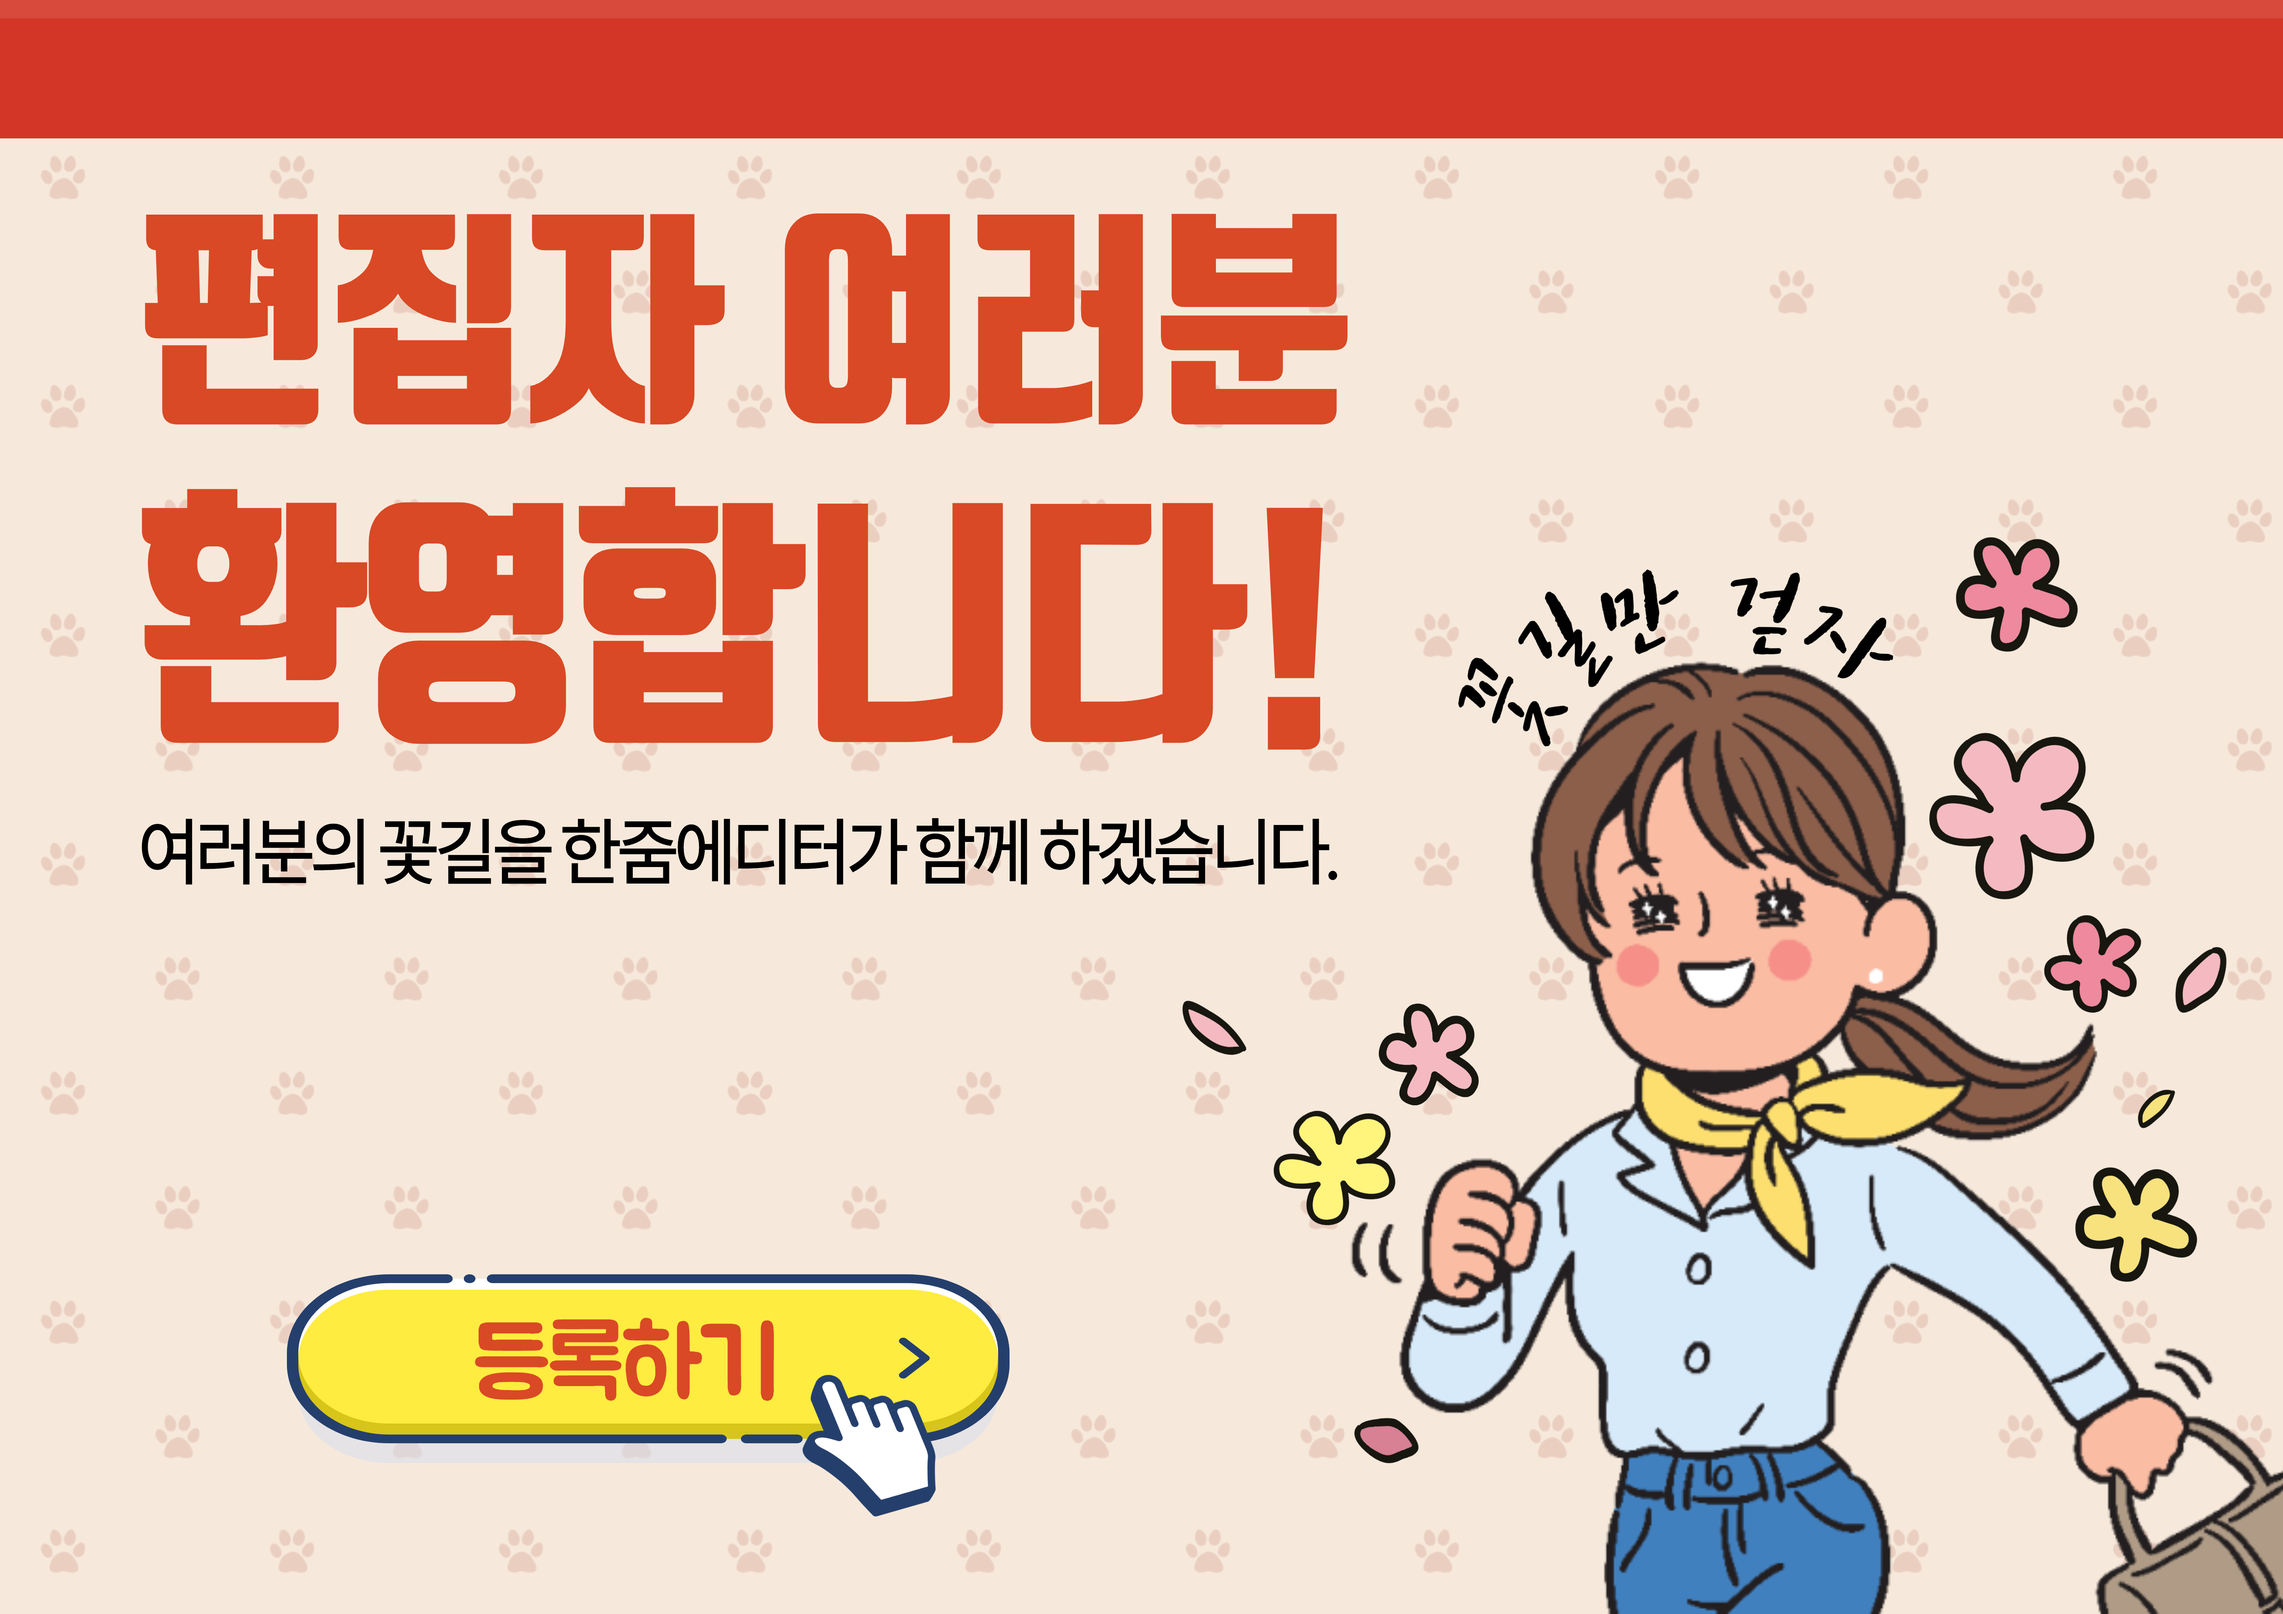
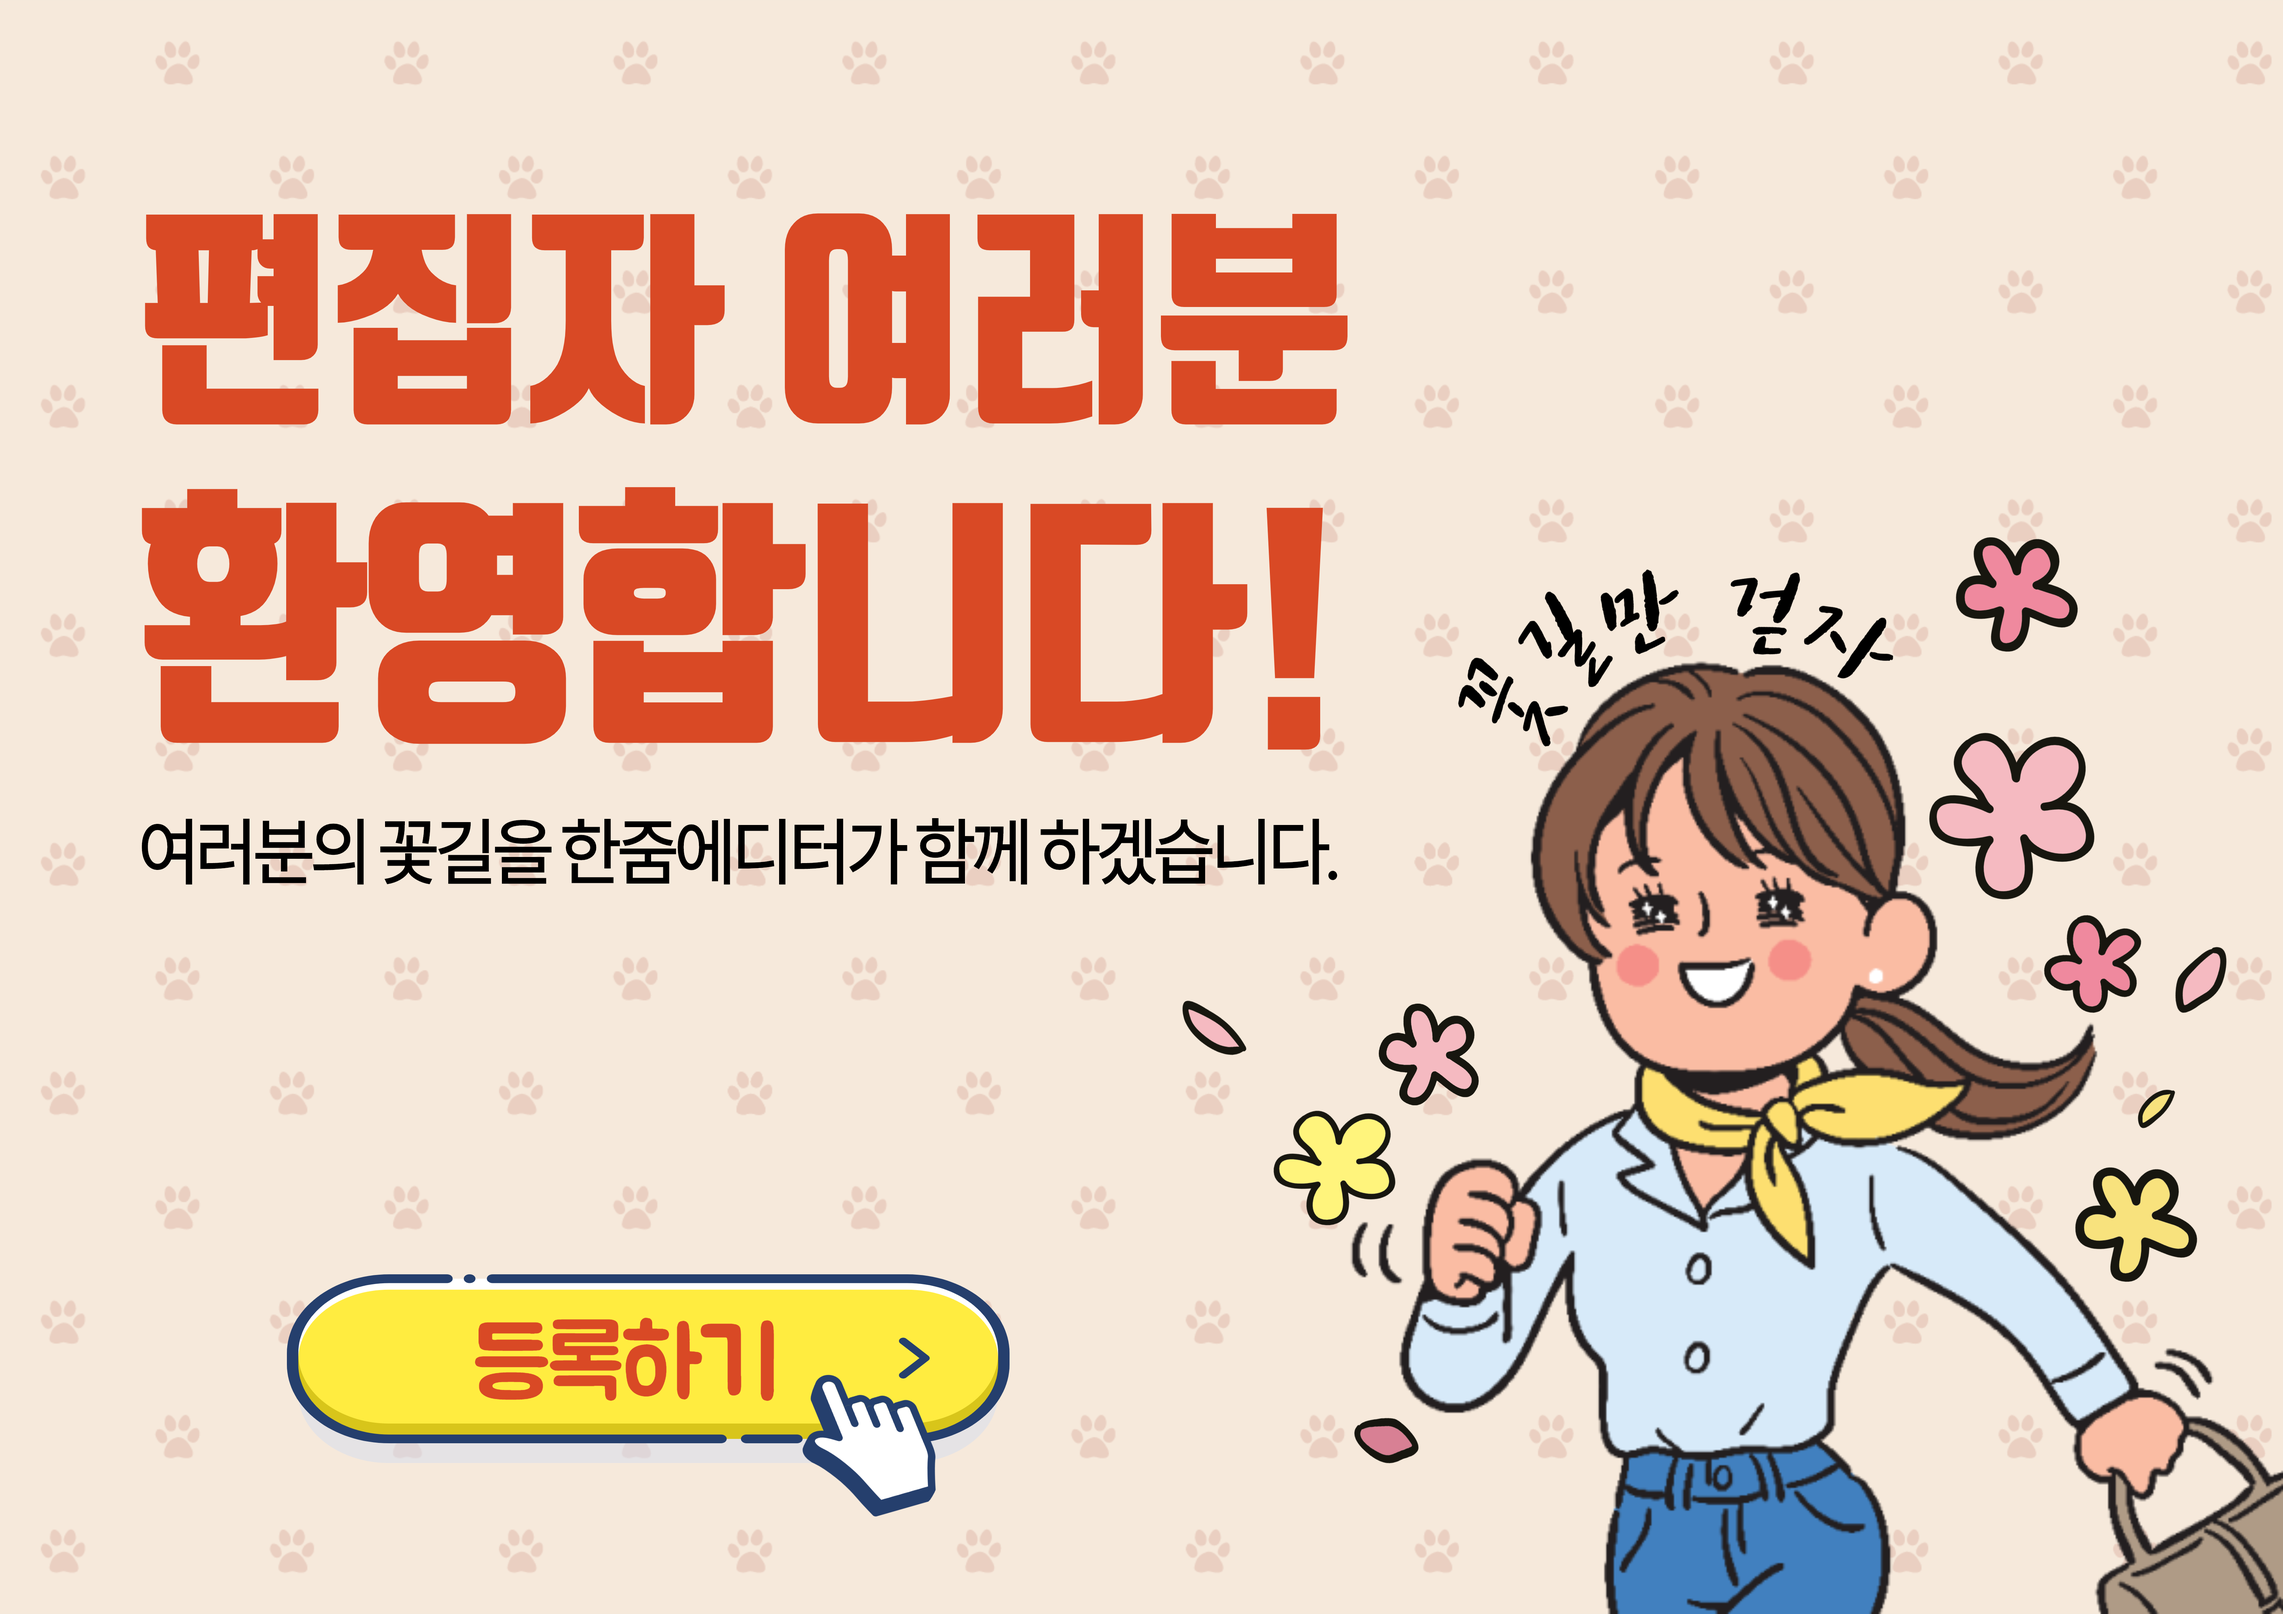
header footer 수정

Changed region(s): [[0.0, 0.0, 1.0, 0.0935]]

diff --git a/TeamProject/WebContent/js/rollingJob.js b/TeamProject/WebContent/js/rollingJob.js
@@ -1,0 +1,53 @@
+/**
+ * 
+ */
+
+$(document).ready(function(){
+	$(".job_bullet label:nth-child(1)").css('background','#666');
+	var width = 1400;
+	var jobCount = $("input[name=job_pos]").length;
+	$(".job_left").click(function(){
+		$(".job_left").css("pointer-events","none");
+		$(".job_right").css("pointer-events","none");
+		
+		setTimeout(function(){
+			$(".job_left").css("pointer-events","auto");
+			$(".job_right").css("pointer-events","auto");
+		},1000);
+		
+		var job_margin = $(".main_job_form").css('marginLeft').replace('px','');
+		if(job_margin != 0){
+			var job_pos = Number(job_margin / -1400) + Number(0);
+			var job_pos_next = Number(job_margin / -1400) + Number(1);
+			$(".main_job_form").css('marginLeft',Number(job_margin)+Number(width)+"px");
+			$(".job_bullet label:nth-child("+job_pos_next+")").css('background','#fff');
+			$(".job_bullet label:nth-child("+job_pos+")").css('background','#666');
+		} else {
+			$(".main_job_form").css('marginLeft',-width*(jobCount-1)+"px");
+			$(".job_bullet label:nth-child(1)").css('background','#fff');
+			$(".job_bullet label:nth-child("+jobCount+")").css('background','#666');
+		}
+	});
+	$(".job_right").click(function(){
+		var job_margin = $(".main_job_form").css('marginLeft').replace('px','');
+		
+		$(".job_left").css("pointer-events","none");
+		$(".job_right").css("pointer-events","none");
+		setTimeout(function(){
+			$(".job_left").css("pointer-events","auto");
+			$(".job_right").css("pointer-events","auto");
+		},1000);
+		
+		if(job_margin != width*(1-jobCount)){
+			var job_pos = Number(job_margin / -1400) + Number(1);
+			var job_pos_next = Number(job_margin / -1400) + Number(2);
+			$(".main_job_form").css('marginLeft',Number(job_margin)-Number(width)+"px");
+			$(".job_bullet label:nth-child("+job_pos_next+")").css('background','#666');
+			$(".job_bullet label:nth-child("+job_pos+")").css('background','#fff');
+		} else {
+			$(".main_job_form").css('marginLeft',0+"px");
+			$(".job_bullet label:nth-child(1)").css('background','#666');
+			$(".job_bullet label:nth-child("+jobCount+")").css('background','#fff');
+		}
+	});
+});

diff --git a/TeamProject/WebContent/css/default.css b/TeamProject/WebContent/css/default.css
@@ -15,8 +15,10 @@ html,body {margin: 0; padding:0; min-height: 1600px;	font-family: "NanumGothic_0
 /*  	background-image: url("../img/back6.png"); background-position: 300px 0px; */
  	
  	}
+main { min-height: 500px;}
+header {height:81px; background-color:rgb(230,0,0, 0.65);}
 div#wrap {width: 1400px; margin: 0 auto; background: #fff2e6;}
-div#top {margin: 0 auto; display: inline; position:relative; z-index: 300;}
+div#top {margin: 0 auto; display: inline; position:relative; z-index: 300; }
 div#top_title { float: left; margin: 20px 0 0 20px; cursor: pointer; }
 div#top_menu { float: left; margin: 20px 0 20px 50px; }
 div#top_menu li { padding : 0px 40px; }
@@ -64,15 +66,15 @@ div.notice_content ul li{padding:20px 0 30px 0;}
 @media (min-width : 1801px) {
 .ad1,.ad2 {display: block;}
 .ad1 img, .ad2 img{ width:200px; }
-.ad1 { position: absolute; left:610px; top:150px;}
-.ad2 { position: absolute; left:-1050px; top:150px;}
+.ad1 { position: absolute; left:560px; top:150px;}
+.ad2 { position: absolute; left:-1120px; top:150px;}
 
 }
 @media (min-width : 2000px) {
 .ad1,.ad2 {display: block;}
 .ad1 img, .ad2 img{ width:300px; }
-.ad1 { position: absolute; left:610px; top:150px;}
-.ad2 { position: absolute; left:-1150px; top:150px;}
+.ad1 { position: absolute; left:560px; top:150px;}
+.ad2 { position: absolute; left:-1220px; top:150px;}
 
 }
 
@@ -83,8 +85,8 @@ div.notice_content ul li{padding:20px 0 30px 0;}
 
 
 
-footer { height: 200px; background-color: #373737; color: #fff;}
-footer table { position: relative; bottom:50px; }
+footer {position: relative; height: 200px; background-color: #373737; color: #fff; z-index: 250;}
+footer table { position: absolute; bottom:70px; }
 footer td { padding: 0 50px;}
 footer td.footer_title {font-size: 36px;}
 footer td.footer_content {font-size: 14px;}

diff --git a/TeamProject/WebContent/js/topMenu.js b/TeamProject/WebContent/js/topMenu.js
@@ -1,0 +1,56 @@
+/**
+ * 
+ */
+$(document).ready(function(){
+	$("#menuBtn").click(function(){
+		var navHeight = $("#myNav").css("height").replace("px","");
+		if(navHeight > 0){
+			$("#myNav").css("height","0px");
+			$("#myNav").css("border","0px solid #c60000");
+		} else {
+			var ulHeight = $(".overlay_content").css("height").replace("px","");
+			$("#myNav").css("height",ulHeight);
+			$("#myNav").css("border","2px solid #c60000");
+		}
+	});
+	$("#noticeBtn").click(function(){
+		var navHeight = $("#myNotice").css("height").replace("px","");
+		if(navHeight > 0){
+			$("#myNotice").css("height","0px");
+			$("#myNotice").css("border","0px solid #c60000");
+		} else {
+			var ulHeight = $("#notice_list").css("height").replace("px","");
+			$("#myNotice").css("border","2px solid #c60000");
+			$("#myNotice").css("height",ulHeight);
+		}
+	});
+	$('html').click(function(e) {
+		var navHeight = $("#myNav").css("height").replace("px","");
+		var noticeHeight = $("#myNotice").css("height").replace("px","");
+		if(navHeight > 0){
+			if(!$(e.target).hasClass("menu_user_content")) {
+					$("#myNav").css("height","0px");
+					$("#myNav").css("border","0px solid #c60000");
+				} 
+		}
+		if(noticeHeight > 0){
+			if(!$(e.target).hasClass("menu_user_notice")) {
+				$("#myNotice").css("height","0px");
+				$("#myNotice").css("border","0px solid #c60000");
+			} 
+		}
+	});
+	
+	$(window).scroll(function() {
+		var scroll = $(window).scrollTop();
+		//console.log(scroll);
+		if (scroll >= 50) {
+			//console.log('a');
+			$("header").addClass("fx_header");
+		} else {
+			//console.log('a');
+			$("header").removeClass("fx_header");
+			
+		}
+	});
+});
